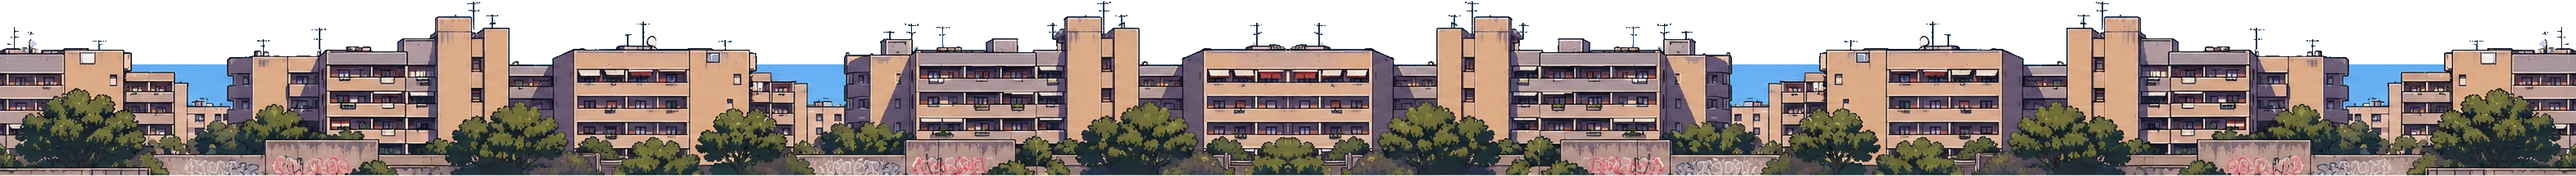
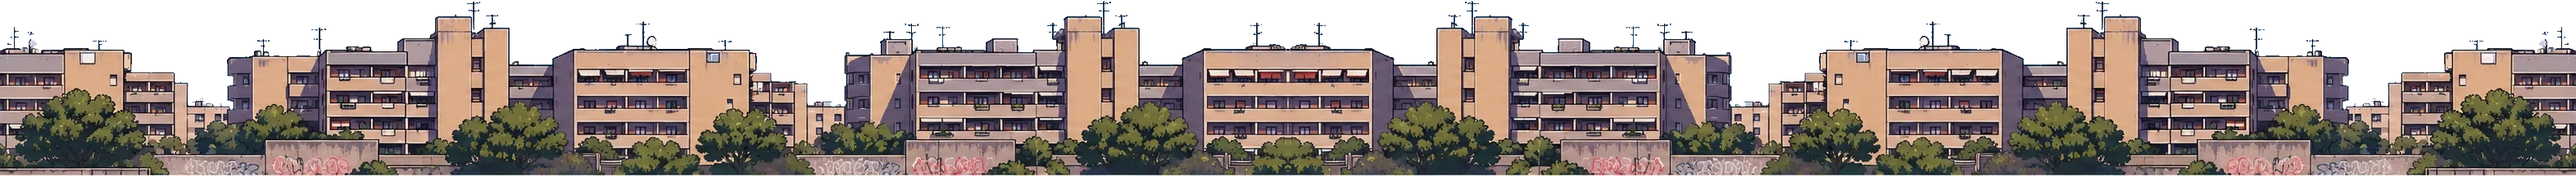
Corri Marf!: tolti i pezzi di cielo azzurro dal livello dei palazzi
Claude-Session: https://claude.ai/code/session_017AfdJjPRYm7AhKZz7XGFBU

diff --git a/giochi/corri-marf/index.html b/giochi/corri-marf/index.html
@@ -479,7 +479,7 @@
      Le strisce sono alte 724 px e si ripetono in orizzontale. ── */
   var SF = {};
   ['cielo.jpg', 'colline.webp', 'palazzi.webp', 'strada.webp', 'torre-telecom.webp', 'centro-idrico.webp'].forEach(function (n) {
-    var img = new Image(); img.src = 'sfondo/' + n + '?v=1'; SF[n.split('.')[0]] = img;
+    var img = new Image(); img.src = 'sfondo/' + n + '?v=2'; SF[n.split('.')[0]] = img;
   });
   var SF_S = H / 724;                      // scala delle strisce
   var STRADA_Y = 604 * SF_S;               // dove inizia la strada (riga 604 della striscia)
